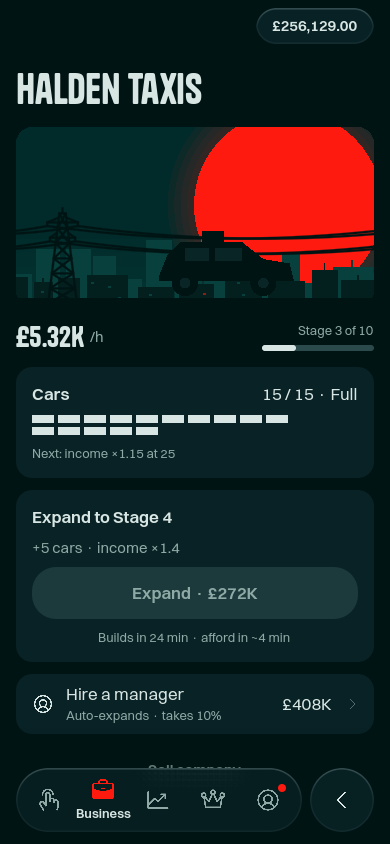
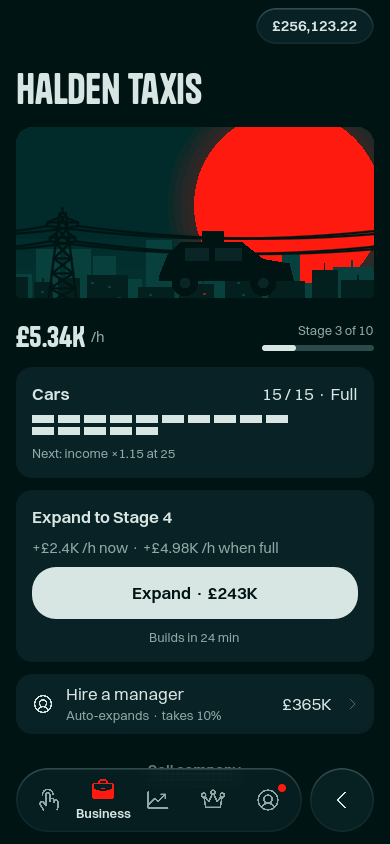
Docs for the 1.2 balance pass: changelog, What's new, balance guide, README pictures
Claude-Session: https://claude.ai/code/session_01G43aEuqkjUy83khniNYyKE

diff --git a/docs/BALANCE.md b/docs/BALANCE.md
@@ -12,14 +12,24 @@ Measured with the pacing robot (`game/tests/pacing_sim.gd`): 4 short sessions a 
 | Milestone | Target day | Last measured |
 |---|---|---|
 | First company | under 0.5 | 0.3 |
-| 25% complete | 7 to 10 | 8.5 to 8.9 |
-| 50% complete | 15 to 21 | 17.3 to 18.5 |
-| 75% complete | 28 to 38 | 28.8 to 29.8 |
-| 90% complete | 33 to 46 | 35.3 to 36.9 |
+| 25% complete | 7 to 10 | 8.8 to 10.5 |
+| 50% complete | 15 to 21 | 17.3 to 17.9 |
+| 75% complete | 28 to 38 | 27.8 to 28.9 |
+| 90% complete | 33 to 46 | 36.3 to 38.9 |
 | All 6 mergers | 35 to 50 | 40.3 |
 | All 17 companies | 35 to 45 | 36.3 to 36.8 |
 
-A change that moves any milestone outside its range needs a reason, written in the commit message.
+A change that moves any milestone outside its range needs a reason, written in the commit message. Earlier than the range is never fine (the game must not get easier); later is fine with a reason.
+
+Last measured: 1.2 balance pass (seeds 1234, 99, 7 and the rate, gamble and loan robot). 25% on seed 7 lands at day 10.5 and 75% at 27.8: half a day either side of the range, accepted because the 90% day held at 36 to 39.
+
+## Expansion prices (1.2)
+
+Before 1.2 an expansion's price grew ×3.3 a stage while the company's income grew far less, so late expansions cost 1,000 to 5,000 hours of that company's income. Now:
+- Expansion prices grow ×2.6 a stage (`exp_growth`), so a late expansion costs a few hundred hours, not thousands. The Shop's 4→5 expansion went from £287K to about £211K at the same income.
+- To keep the pace, company openings, unit prices and first expansions cost 45% more (`cost`, `unit_cost`, `exp_cost`).
+- The company page shows what an expansion is worth: "+£X /h now · +£Y /h when full".
+- Why not cheaper still: expansions are the game's main brake. Pricing every expansion at a flat 30 hours of the company's income put 90% at day 19 to 23, even with dearer units.
 
 Other players, measured by the agent play-testers:
 - Twice a day: about 1.4 × slower than the robot. Fine.
@@ -39,7 +49,7 @@ Companies: 17, sorted by price. New ones fill price gaps (Food trucks, Gym chain
 | Shares | dividends paid once an hour on the hour at a set rate per share (1% to 5% of the base price a day, by the company's yield; `Data.div_yield_day()`, plus bonuses), not tied to the live price; time away pays missed hours up to the away cap; prices drift slowly back to a fair value; news moves them at once. Robot with 1% to 5% a day: 90% day 37.8 and 36.3 (seeds 1234, 99), was 36.9 and 35.3 | `dividend_rate()`, `_pay_dividends()` |
 | Crypto | random walk with boom and bust phases (no pull home), staking (24 h lock, capped) | `COINS`, `STAKE_CAP` |
 | Converting coins | sell at the usual 0.5% spread, then buy the other coin; nothing gained, so no loop | `convert_coin()` |
-| Mining | one pool of miners mining one coin you choose (switch free, any time); a miner earns 4% of its price an hour in £ for any coin (pays back in about a day), with no cap tied to income; each miner costs ×1.7 more, 40 max, which keeps mining to roughly 10 to 25% of income | `RIG_*`, `MINE_*` |
+| Mining | one pool of miners mining one coin you choose (switch free, any time); a miner earns 4% of its price an hour in £ for any coin (pays back in about a day), capped at a quarter of company income (never under £2K/h, 1.2) because a buy-by-payback player let mining outrun companies; each miner costs ×1.7 more, 40 max, which keeps mining to roughly 10 to 25% of income | `RIG_*`, `MINE_*` |
 | Head office | ten one-off upgrades: taps ×1.5, deals 25% sooner, away cap 10 h then 12 h, expansions 15% quicker (twice), +1 golden sun a day, locked coins +25%, miners +25%, managers take 6% | `UPGRADES` |
 | Auto clicker | 5 levels (£25K, £400K, £8M, £250M, £10B): a tap every 2, 1.5, 1, 0.75, 0.5 s, each worth half a tap (no big taps or Frenzy); only while playing, pauses 2 min after the last touch; reset by rebirth | `AUTO_LEVELS`, `auto_tick()` |
 | Selling a company | half its value (value = 60% of what was spent), so always a loss; not while expanding | `sell_business()` |
@@ -71,7 +81,7 @@ Companies: 17, sorted by price. New ones fill price gaps (Food trucks, Gym chain
 10. Taps: at most 7 paid a second, and tap heat (+1 per paid tap, cools 2 a second) above 1,200 makes taps pay a quarter, so a tapping app can't farm for hours (about 4 minutes non-stop at 7 a second to reach it; the robot's 3 a second never does). Invest goals need a real amount (10 minutes of income or $100).
 11. The clock going backwards never re-rolls goals or the streak. Restoring a backup keeps the live market and deal.
 12. Golden suns: at most 4 a day, only while playing, worth 10 to 60 minutes of income or a short buff. Buffs end when the app closes and never pay while away.
-13. Mining has no income cap; its limit is price (×1.7 per miner, 40 max). It, counts at most 8 hours while away, and a restore mines nothing.
+13. Mining pays at most 25% of company income (floor £2K/h); its other limit is price (×1.7 per miner, 40 max). It, counts at most 8 hours while away, and a restore mines nothing.
 14. A reset keeps the live market, so reset then restore can't re-roll prices.
 15. Setting the clock back pulls short buffs (Frenzy, Rush, x3 tap boost) back with it.
 6. Goals only ask for things that are still possible (no "buy units" when every company is full).
@@ -106,9 +116,9 @@ The smoke and stress tests check most of these. Add a test when you add a guard 
 
 ## Rebirth and the RBP tree
 
-- Rebirth from £10B net worth. RBP = 10 × cube root of (net worth ÷ £10B), +RBP nodes up to +50%. So £10B gives 10, £10T 100, £10Qa 1,000.
+- Rebirth from £10B net worth. RBP = 10 × cube root of (net worth ÷ £10B), +RBP nodes up to +50%. So £10B gives 10, £10T 100, £10Qa 1,000. Past 1,000 RBP it grows with the 9th root instead (`RBP_SOFT_CAP`, 1.2): a player who waited months used to get 87,000 RBP, the whole tree at once; now about 4,400.
 - Rebirth clears money and assets (`REBIRTH_RESET`), including rewards not yet claimed, the waiting deal and the daily gift, so nothing is carried into a new run. It keeps the market, achievements, stats, settings, goal and streak timers and the tree (`REBIRTH_KEEP`).
-- The tree: 157 nodes plus Sol (8 branches, a ring of gates, 8 bridges, 24 notables, 16 keystones, 5 unlocks), 7,509 RBP in all.
+- The tree: 229 nodes since 1.2 (a 9-node deep path on every branch, ~19,000 RBP in all); before that 157 nodes plus Sol (8 branches, a ring of gates, 8 bridges, 24 notables, 16 keystones, 5 unlocks), 7,509 RBP in all.
 - Unlock nodes (gold stars, 3 slots still free for future unlocks): Sol Casino 6, High tables 20, Island estates 45 (3 properties £50B to £160B), Relic hunters 50 (a 7th collection, £2B to £2T, +8% when complete), Frontier 60 (Fusion plant £1.5T and Orbital yards £20T, about 2% of price an hour per unit like Space launch). Their content is never counted in completion % or achievements (`businesses()`, `property_count()`, `collections()` are the lists in play; completion uses the base lists). Cost = 3 × 1.32^(depth - 1), notables ×2, keystones ×4. Effects of one stat add up (never multiply each other). The tree is not part of completion %, so the pace targets above are for the first run.
 - Guard rails it moves: away cap up to +7.25 h, one more golden sun a day (so 6 at most with Head office), big taps ×10 with Thunder taps, managers' cut 0 with Loyal staff.
 - Robot (`SIM_REBIRTH=never|asap|patient|rate`, 240 days, seed 1234):

diff --git a/docs/ARCHITECTURE.md b/docs/ARCHITECTURE.md
@@ -35,6 +35,7 @@ Pages never change state directly.
 | Rebirth tree | `rebirth_tree.gd` (`RebirthTree`: every node with a fixed string id, position, links, cost and effects; built once). Effects are summed per stat by `Game.rb(stat)` and used where each rule lives |
 | 1.2 | `bank_page.gd` (savings and loans), `weather.gd` (`SkyTime`: day, night, weather), `home_page.gd` (inside your home), `guide.gd` (first-time guide), `stats_page.gd` (charts); casino `video_poker_page.gd`, `crash_page.gd`, `plinko_page.gd`, `race_page.gd`, `wheel_sheet.gd` with maths in `casino/` |
 | Casino pages | `casino_page.gd` (lobby: unlock, cage, limits, games; `CasinoPage.CasinoArt` drawings), `slots_page.gd`, `forge_page.gd` (Sun Forge, 6x5 tumble), `roulette_page.gd`, `blackjack_page.gd`. Money only moves through `Game.casino_stake()` and `Game.casino_pay()` |
+| Records | `records_page.gd` (pushed from Profile) reads `Game.records()`; bests live in `counters` (`best_*` and `best_*_at`), so they survive rebirths |
 | Casino game base | `casino_game.gd` (`CasinoGame`): the shared layout for all nine games (title with "i" rules sheet, status row, game area, dock with bet bar or chip tray, one 56 px main button above the nav). Games write `build_game()` and fill `area` and `dock` |
 | Shared controls | `switch.gd` (on/off), `Row` options (`set_bold`, `set_locked`, `align_top`, `grow_to_fit`, `caption_on_top`), `UI.primary_btn` / `secondary_btn` / `text_btn`, `Art.Scene.muted` for list thumbnails |
 | Casino maths | `casino/forge_math.gd`, `casino/slot_math.gd`, `casino/roulette_math.gd`, `casino/blackjack_math.gd`: pure rules, seedable, no UI (`tests/casino_test.gd` checks their payback) |

diff --git a/CHANGELOG.md b/CHANGELOG.md
@@ -1,5 +1,25 @@
 # Changelog
 
+## Records, 30 rivals, a bigger tree, clearer items, fairer prices
+
+- Records (Profile): richest you've been, best income, best day, best
+  company, biggest tap, casino win and trade, longest streak.
+- Rivals: 30 tycoons with real-looking fortunes shown to the pound
+  (£131,177,482), up from 13 round ones. Your place carries over.
+- Rebirth tree: 229 nodes (was 157), a deep path and a new keystone on every
+  branch, a clearer map with a legend. +, - and home never open the node
+  behind them any more.
+- Items say what they do: your bonus now, what each full set adds in £ an
+  hour, what is left to pay, and that items sell back for 80%. Clearer
+  drawings.
+- Expansions cost far less late on (prices grow x2.6 a stage, was x3.3), and
+  the card shows what you gain. Openings and units cost 45% more so the game
+  still takes weeks.
+- Mining pays at most a quarter of what your companies earn.
+- A rebirth after months of waiting can no longer buy the whole tree at once.
+- Fixed: a home you buy shows under Yours straight away. Tree nodes that
+  make deals come sooner now work.
+
 ## Design and speed pass
 
 - One look everywhere: one main button per screen, at most one red accent
